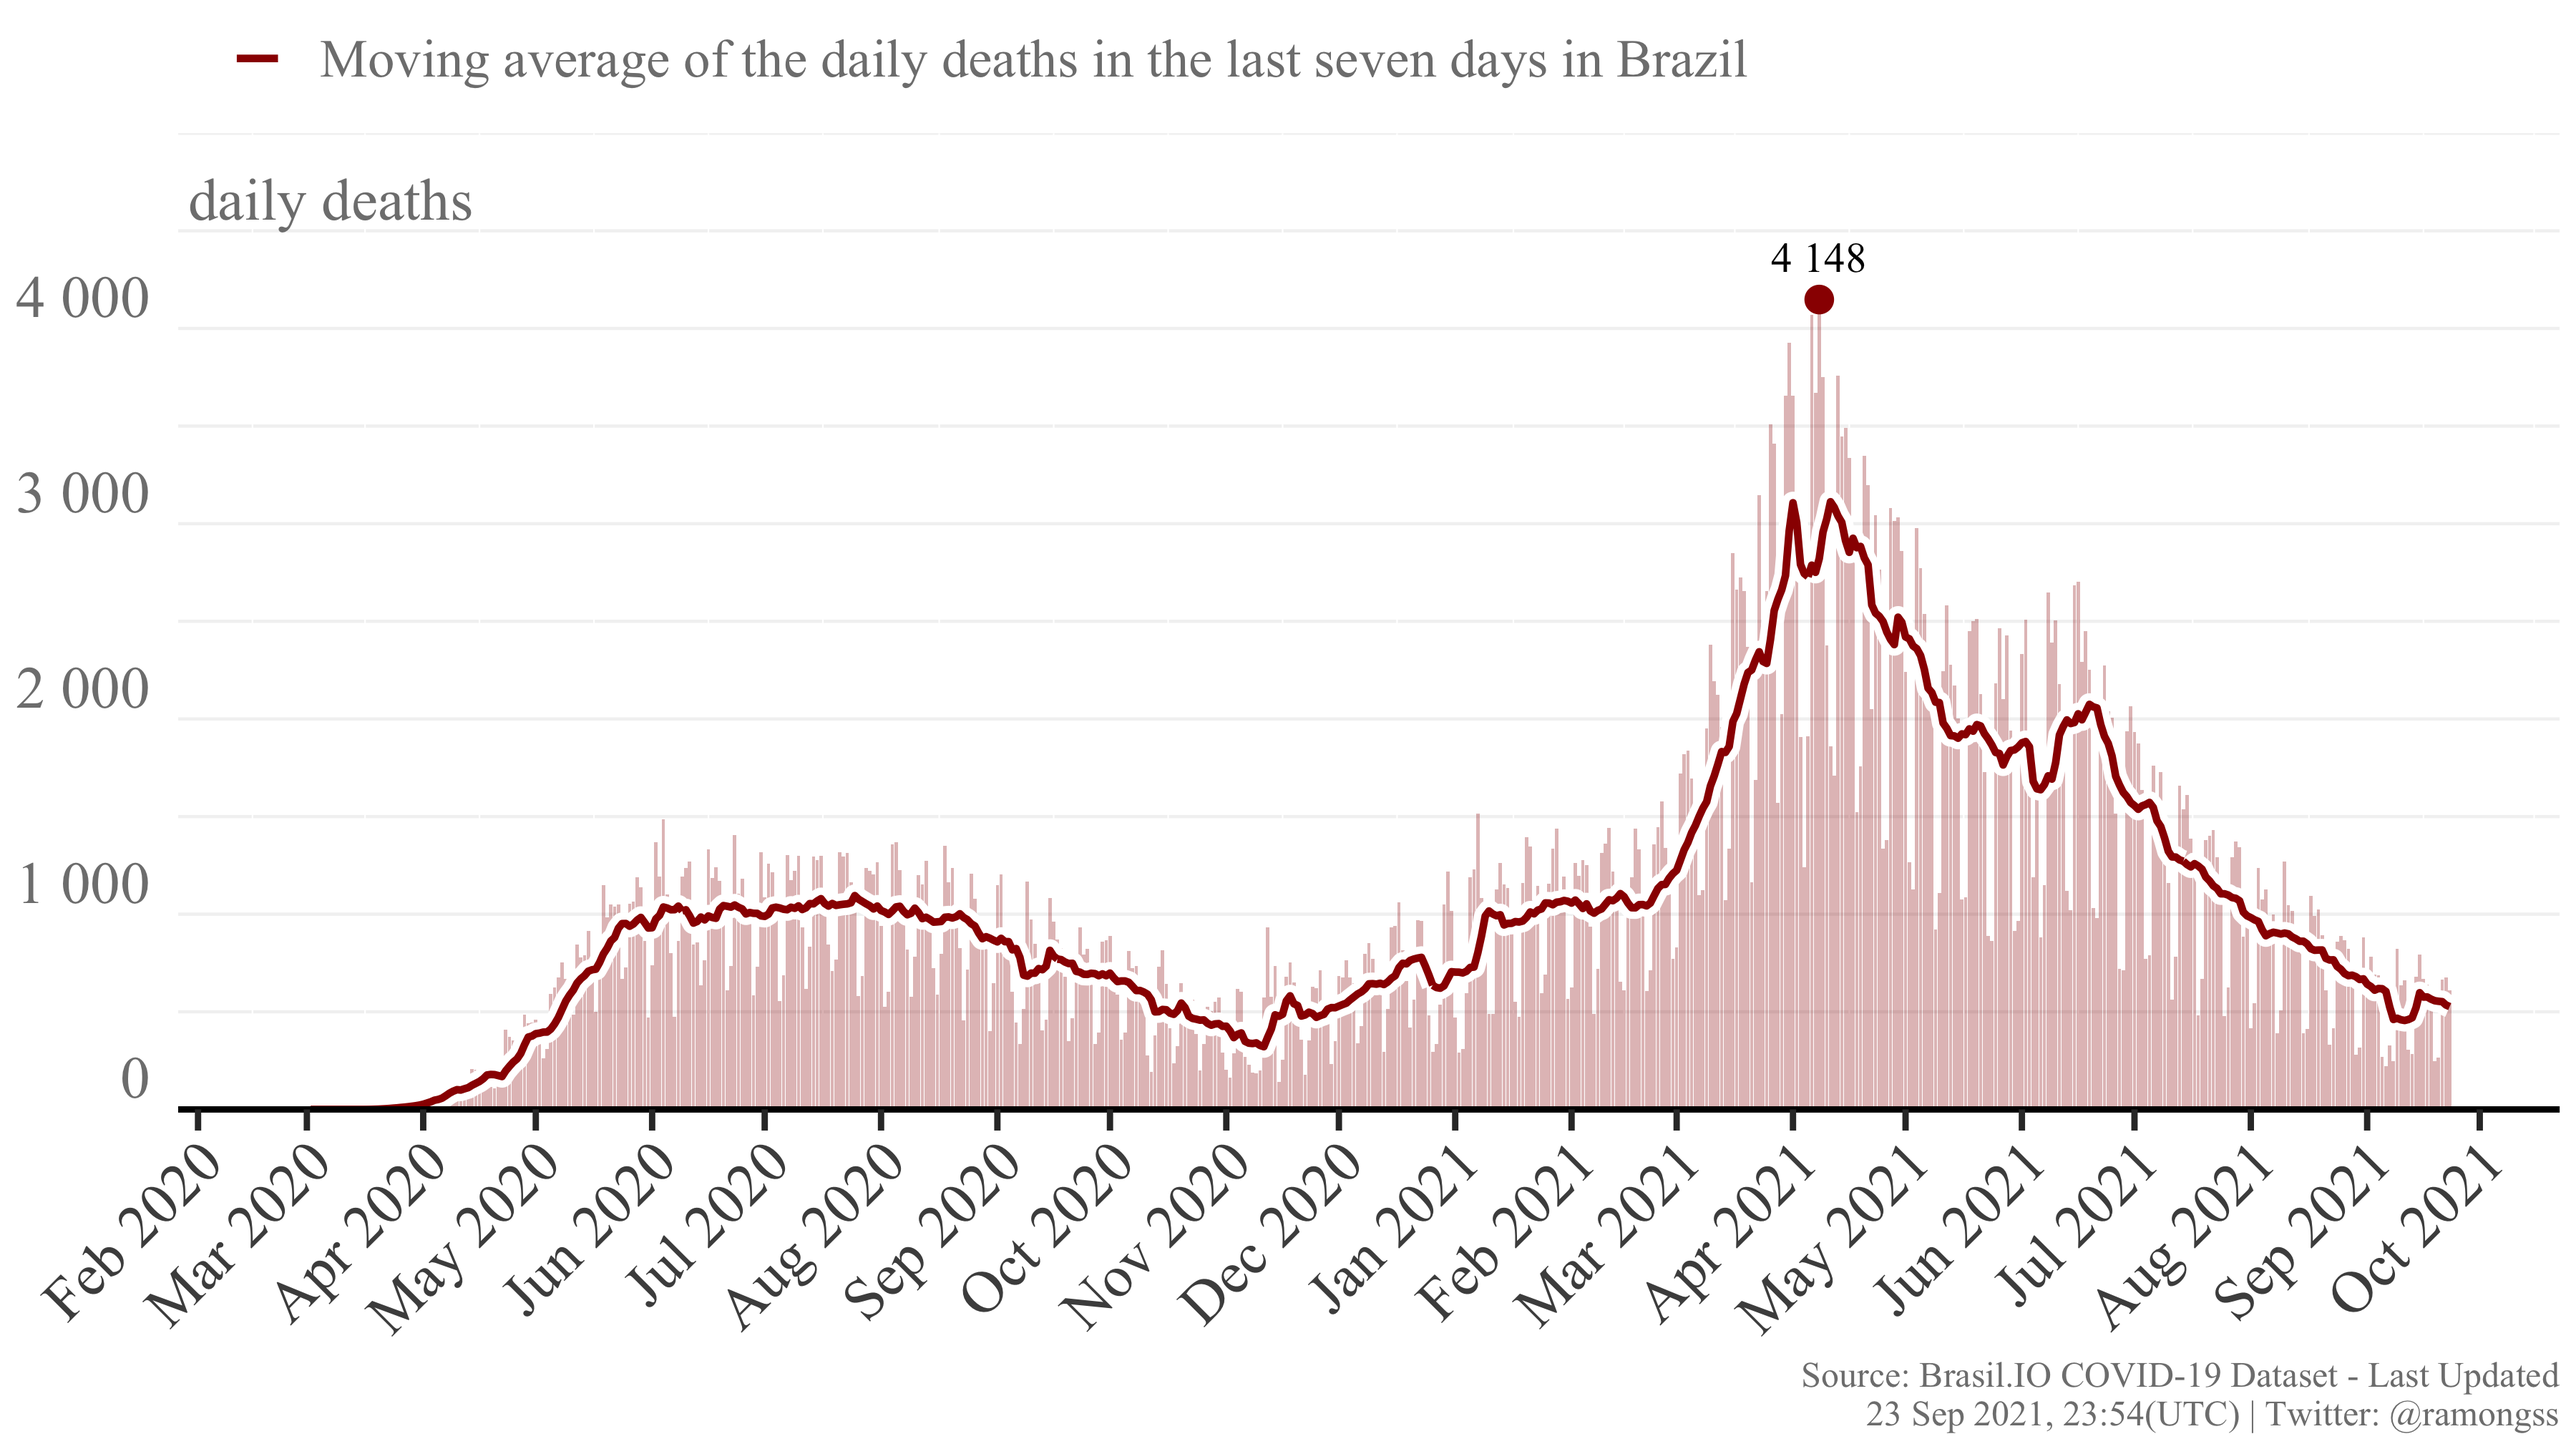
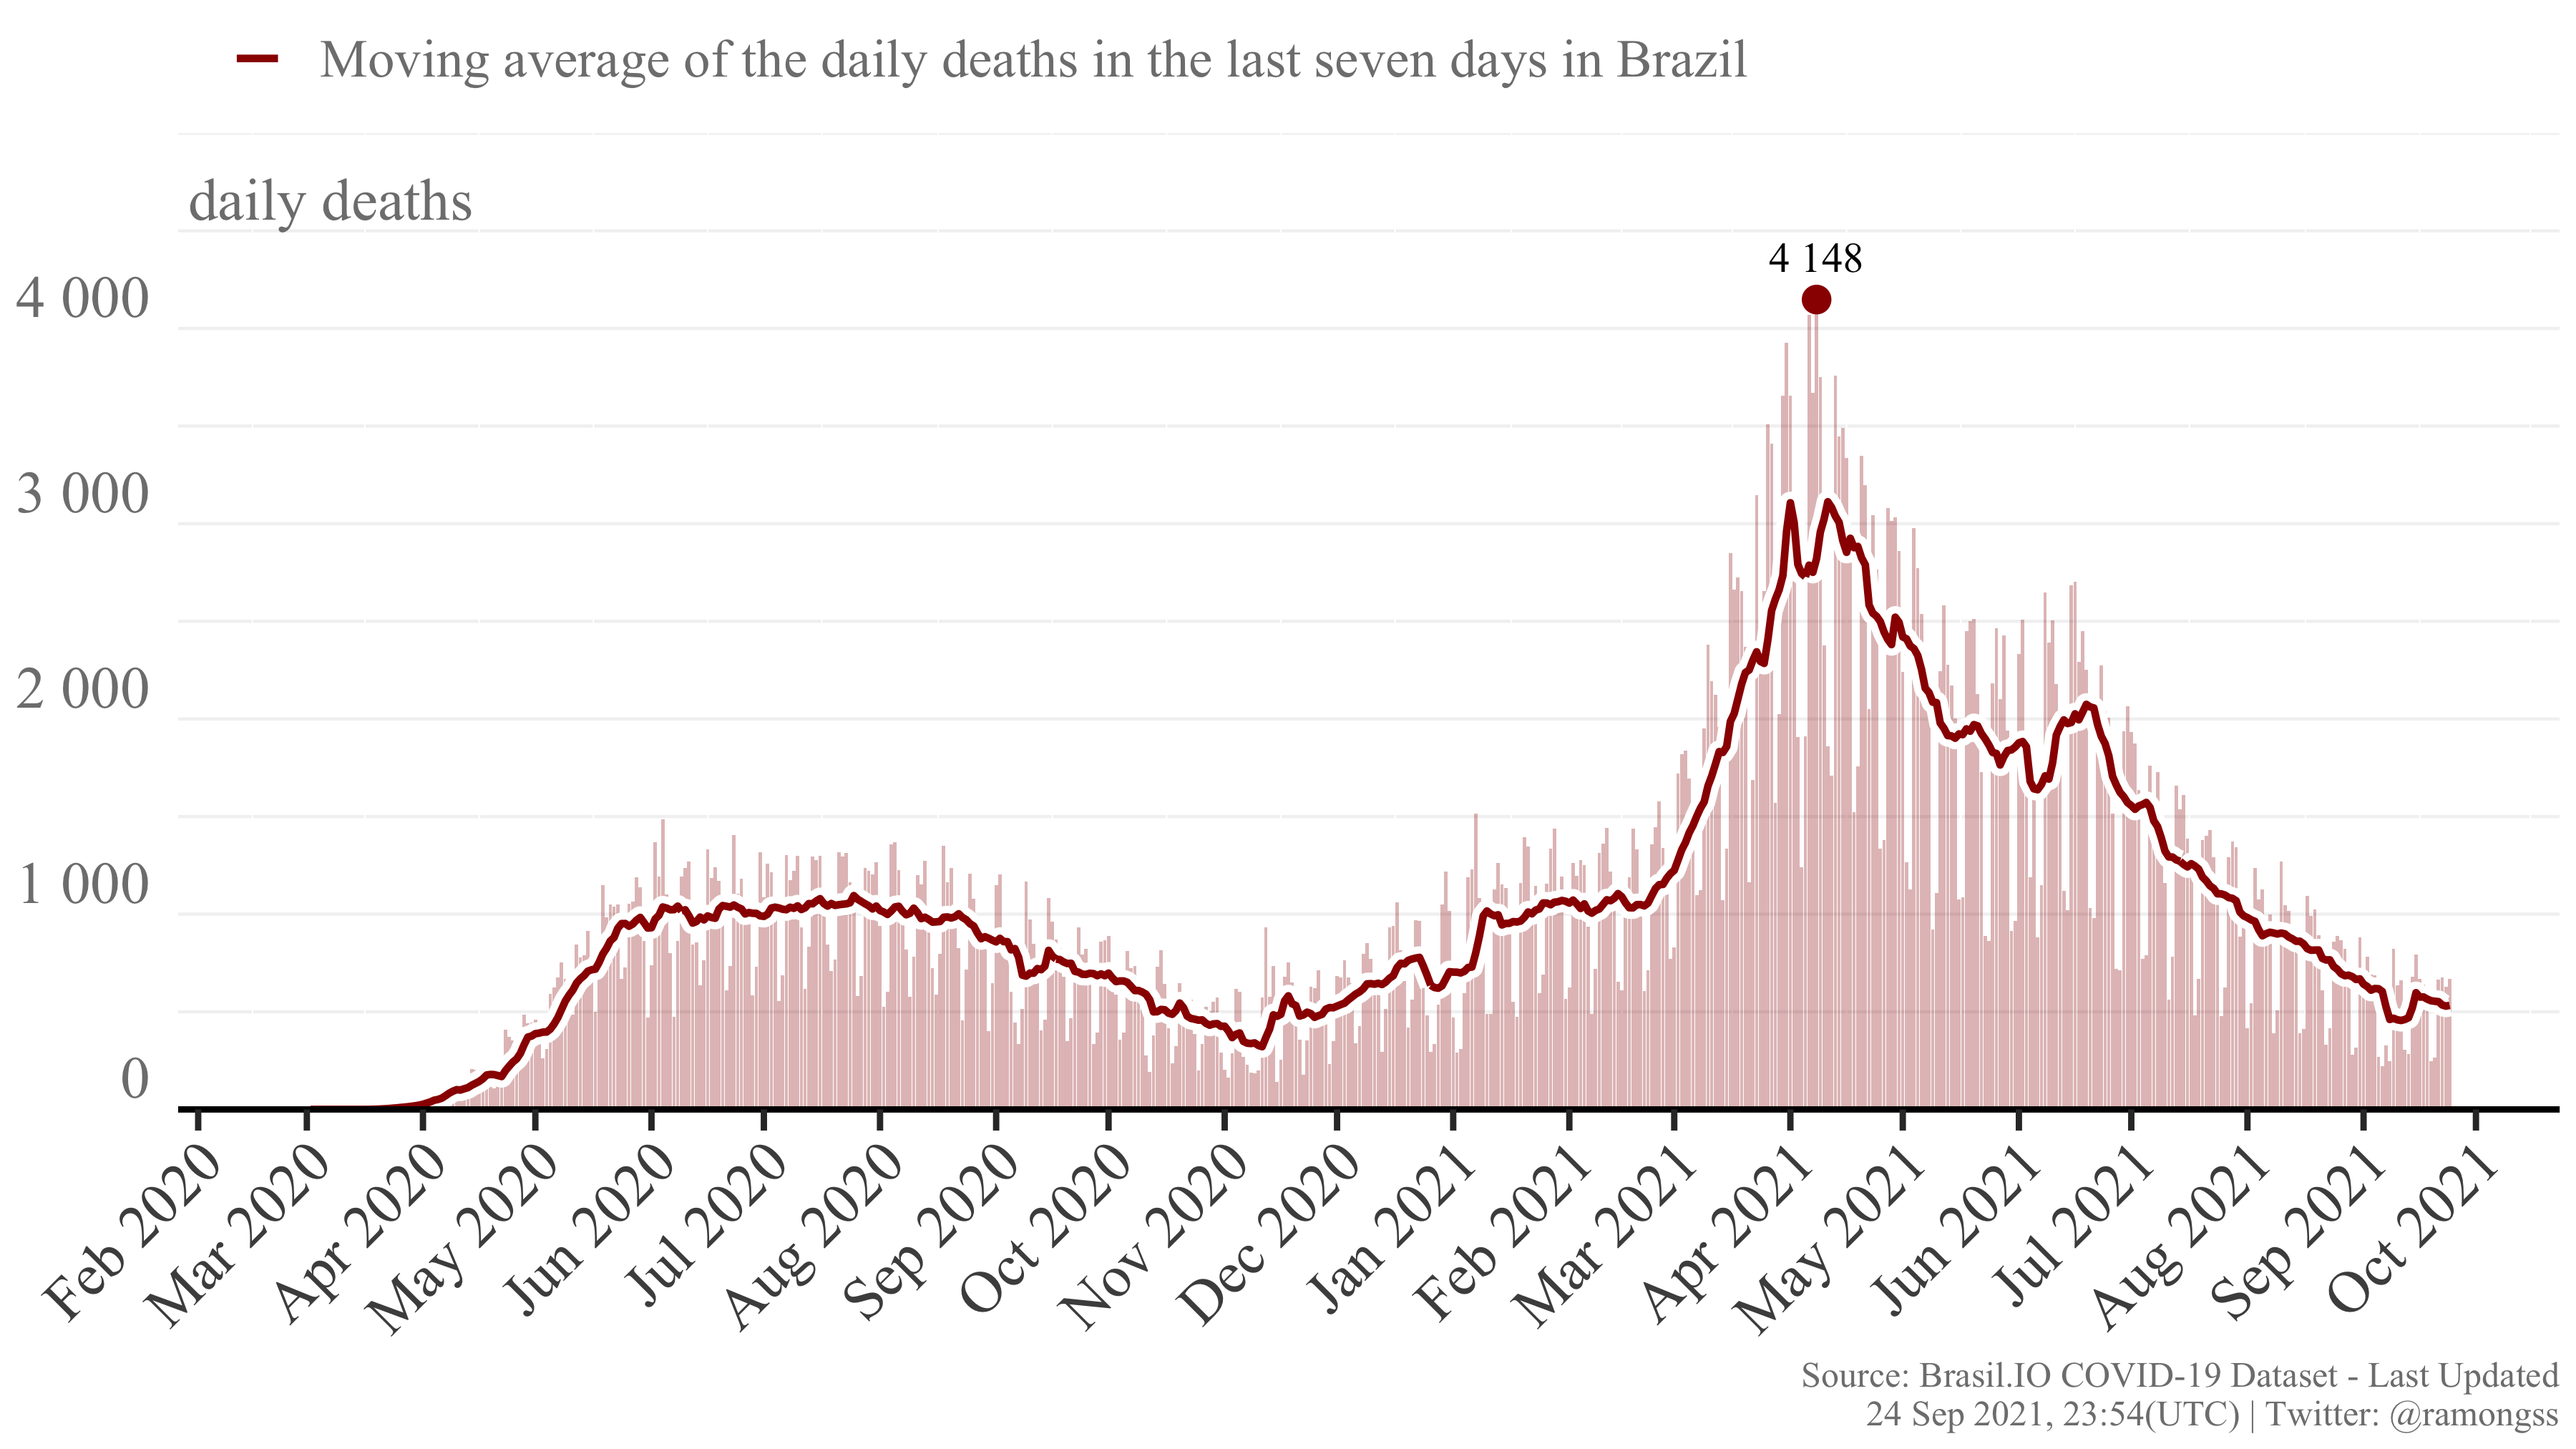
Re-build README.Rmd

diff --git a/README.md b/README.md
@@ -27,8 +27,8 @@ download_brasilio_table <- function(dataset = "covid19", table_name){
 
 ## COVID-19 Confirmed cases
 
-Currently, Brazil has a total of **21,314,068** confirmed cases at **23
-Sep, 2021**, with **24,520** new confirmed cases. The daily maximum
+Currently, Brazil has a total of **21,332,920** confirmed cases at **24
+Sep, 2021**, with **18,328** new confirmed cases. The daily maximum
 incidence was **124,878** confirmed cases at **18 Sep, 2021**. Here
 follows the Figure showing the confirmed case incidence as the bars, and
 the line as the moving average of the last 7 days.
@@ -37,8 +37,8 @@ the line as the moving average of the last 7 days.
 
 ## COVID-19 Deaths
 
-Currently, Brazil has a total of **593,228** deaths at **23 Sep, 2021**,
-with **611** new deaths. The daily maximum deaths incidence was
+Currently, Brazil has a total of **593,913** deaths at **24 Sep, 2021**,
+with **667** new deaths. The daily maximum deaths incidence was
 **4,148** deaths at **08 Apr, 2021**. Here follows the Figure showing
 the deaths incidence as the bars, and the line as the moving average of
 the last 7 days.
@@ -49,4 +49,4 @@ the last 7 days.
 
 This page is daily updated automatically using Github Actions.
 
-*Last update: 23 Sep 2021, 23:54 (UTC).*
+*Last update: 24 Sep 2021, 23:54 (UTC).*
